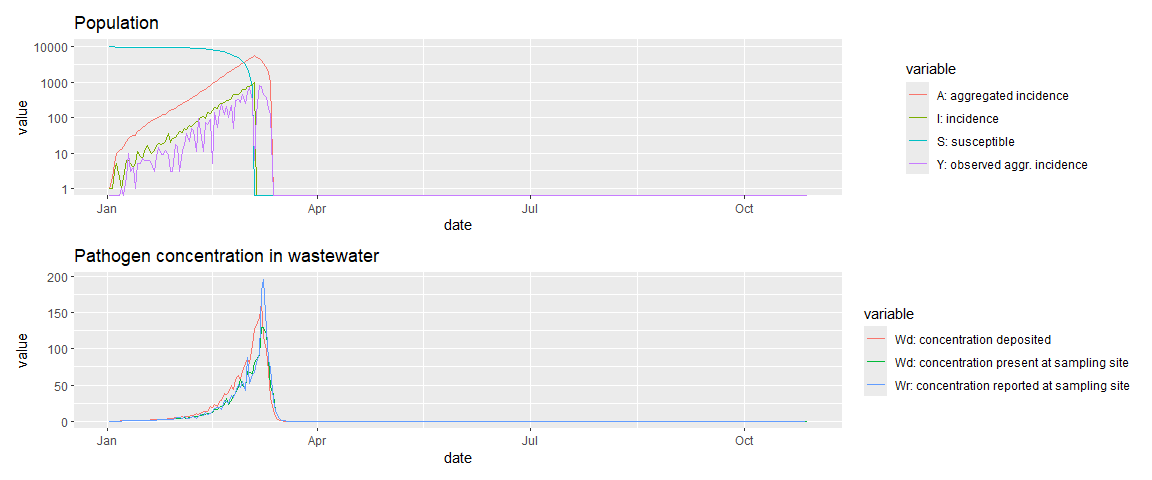
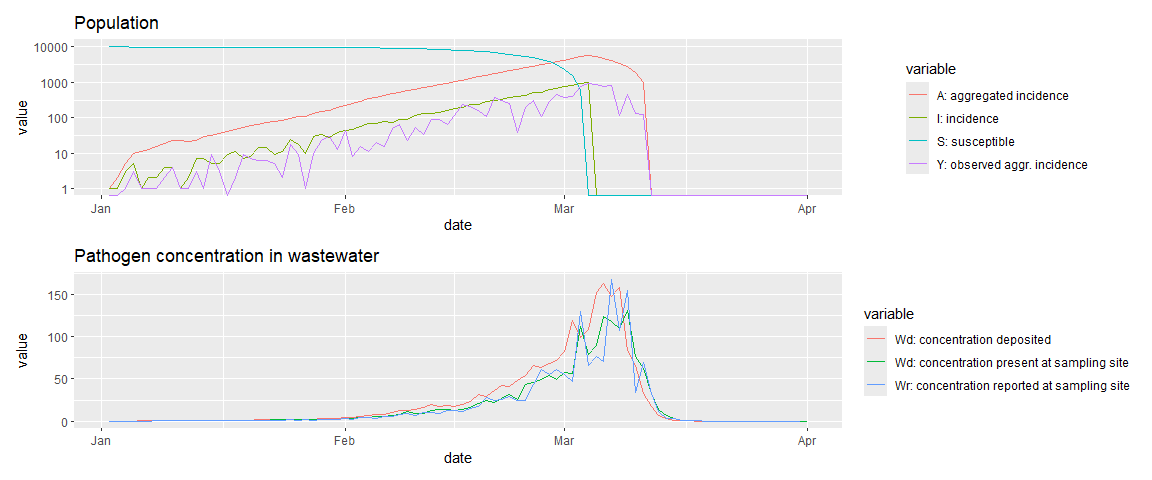
start model description in README

diff --git a/README.md b/README.md
@@ -9,7 +9,20 @@ To install: `devtools::install_github("phac-nml-phrsd/reem")`
 
 ## Model description
 
-((TO DO))
+The epidemic model is a traditional SIR model but implemented as a
+renewal equation instead of the more populate ordinary differential
+equations (ODE). It has been shown that the renewal equation
+implementation is equivalent to the ODE one. See for example: D. Fargue,
+Reducibilite des systemes hereditaires, Int. J. Nonlinear Mech., 9
+(1974), pp. 331–338, D. Breda et al On the formulation of epidemic
+models (an appraisal of Kermack and McKendrick), J. Biol. Dyn.,6 (2012),
+pp. 103–117, and Champredon et al. Equivalence of the Erlang-Distributed
+SEIR Epidemic Model and the Renewal Equation, SIAM J. Appl. Math., 78
+(2018).
+
+The renewal equation of the pathogen transmission process is as follows:
+
+where is the incidence at time , TO FINISH…
 
 ## Simulation example
 
@@ -34,11 +47,11 @@ library(patchwork)
 # Define model parameters
 
 prms = list(
-  horizon  = 300,  # horizon of the simulation
-  last.obs = 299,  # last observation time (must be < horizon)
-  B        = rep(1,300), # time dependent multiplicative factor for transmission
+  horizon  = 90,  # horizon of the simulation
+  last.obs = 88,  # last observation time (must be < horizon)
+  B        = rep(1,90), # time dependent multiplicative factor for transmission
   i0prop  = 1e-3,  # initial proportion of the population infected
-  date.start = lubridate::ymd('2022-01-01'), #start date ofthe epidemic
+  date.start = lubridate::ymd('2022-01-01'), # start date of the epidemic
   start.delta = 0, 
   R0      = 1.5, # Basic reproduction number
   N       = 1e4, # population size
@@ -65,9 +78,9 @@ obj$print_prms()
 
     ## 
     ## --- Parameters for REEM ` foo `
-    ## horizon  =  300 
-    ## last.obs  =  299 
-    ## B  =  1 1 1 1 1 1 1 1 1 1 1 1 1 1 1 1 1 1 1 1 1 1 1 1 1 1 1 1 1 1 1 1 1 1 1 1 1 1 1 1 1 1 1 1 1 1 1 1 1 1 1 1 1 1 1 1 1 1 1 1 1 1 1 1 1 1 1 1 1 1 1 1 1 1 1 1 1 1 1 1 1 1 1 1 1 1 1 1 1 1 1 1 1 1 1 1 1 1 1 1 1 1 1 1 1 1 1 1 1 1 1 1 1 1 1 1 1 1 1 1 1 1 1 1 1 1 1 1 1 1 1 1 1 1 1 1 1 1 1 1 1 1 1 1 1 1 1 1 1 1 1 1 1 1 1 1 1 1 1 1 1 1 1 1 1 1 1 1 1 1 1 1 1 1 1 1 1 1 1 1 1 1 1 1 1 1 1 1 1 1 1 1 1 1 1 1 1 1 1 1 1 1 1 1 1 1 1 1 1 1 1 1 1 1 1 1 1 1 1 1 1 1 1 1 1 1 1 1 1 1 1 1 1 1 1 1 1 1 1 1 1 1 1 1 1 1 1 1 1 1 1 1 1 1 1 1 1 1 1 1 1 1 1 1 1 1 1 1 1 1 1 1 1 1 1 1 1 1 1 1 1 1 1 1 1 1 1 1 1 1 1 1 1 1 1 1 1 1 1 1 
+    ## horizon  =  90 
+    ## last.obs  =  88 
+    ## B  =  1 1 1 1 1 1 1 1 1 1 1 1 1 1 1 1 1 1 1 1 1 1 1 1 1 1 1 1 1 1 1 1 1 1 1 1 1 1 1 1 1 1 1 1 1 1 1 1 1 1 1 1 1 1 1 1 1 1 1 1 1 1 1 1 1 1 1 1 1 1 1 1 1 1 1 1 1 1 1 1 1 1 1 1 1 1 1 1 1 1 
     ## i0prop  =  0.001 
     ## date.start  =  18993 
     ## start.delta  =  0 
